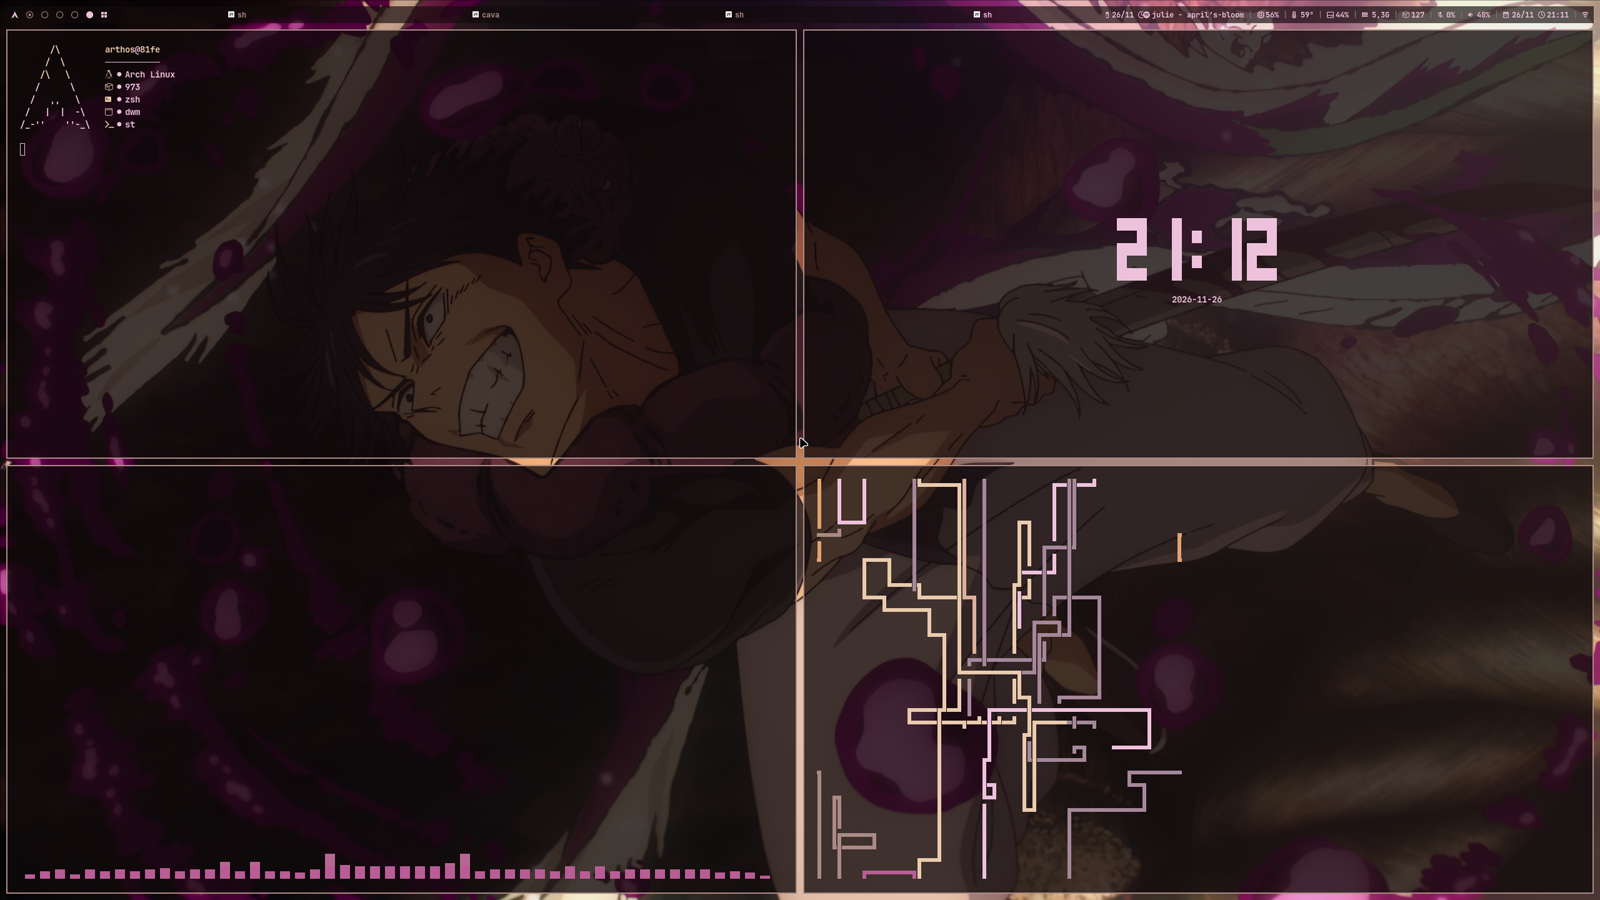
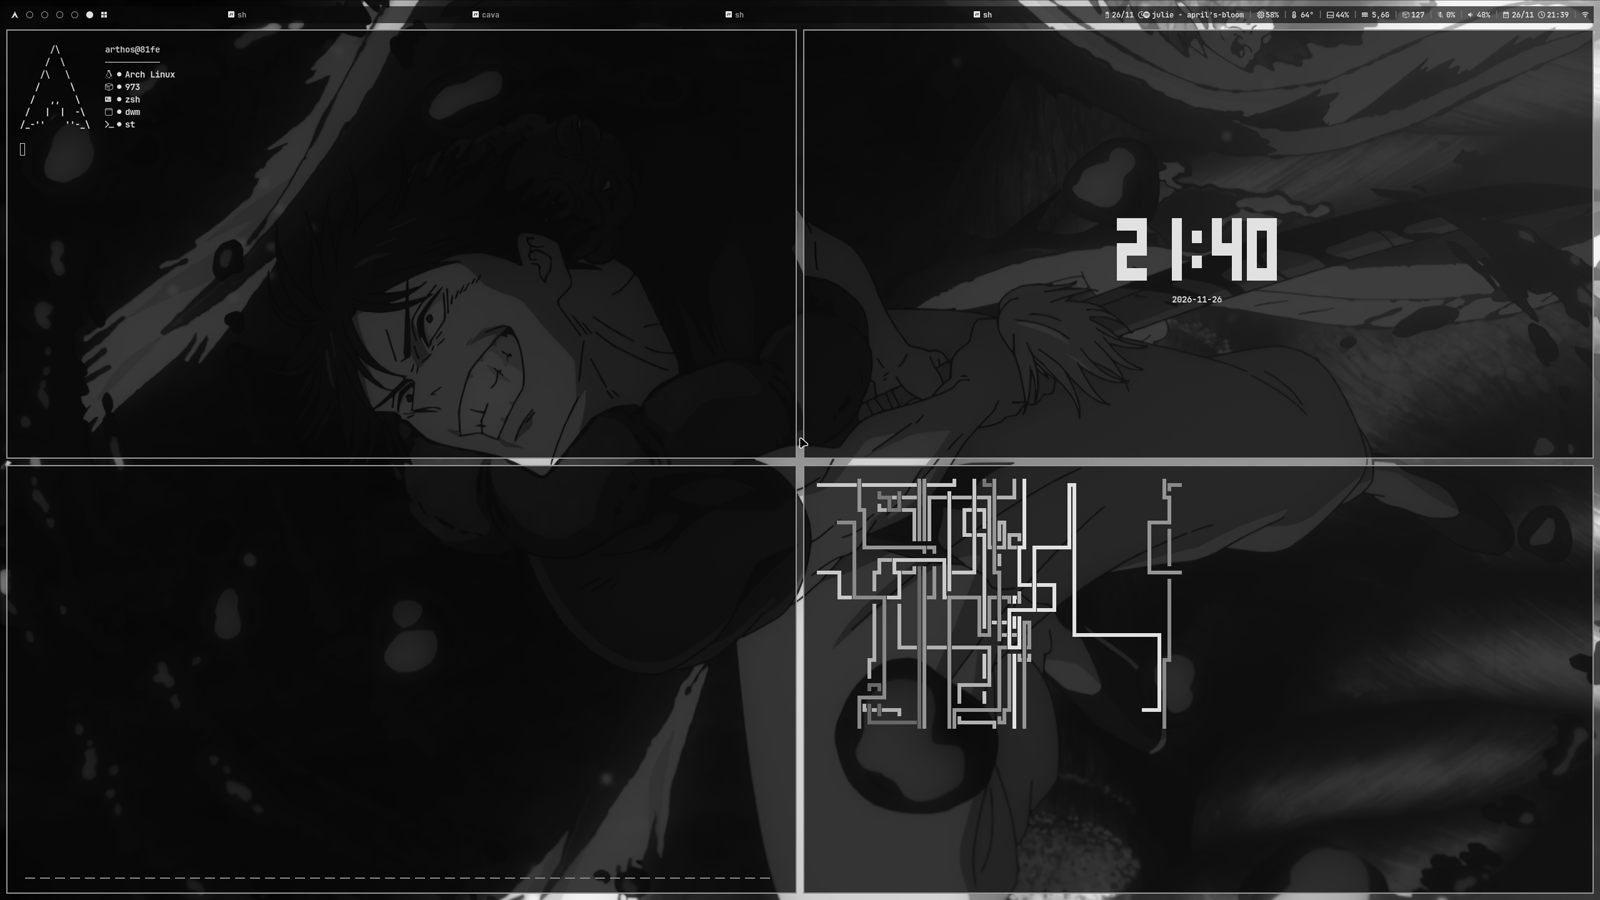
README: clima shoegaze e tema preto e branco do toji
Seções viram faixas de uma fita (lado a e lado b), texto em minúsculas e
rodapé com onda sonora enevoada. Demo, galeria do barpop e GIF do toji
regravados com o wallpaper em preto e branco e a paleta cinza do pywal.

diff --git a/README.md b/README.md
@@ -6,39 +6,42 @@
 
 ## /home/arthos/dotfiles
 
+<sub>˚ ₊‧ loud guitars, quiet rooms ‧₊ ˚</sub><br>
+<sub>▶ ılıılıılıılı &nbsp; on repeat while building this: fleshwater · title fight &nbsp; ılıılıılıılı</sub>
+
 </div>
 
 <div align=center>
 
-![](https://img.shields.io/github/stars/francosec/dotfiles?color=edc1dc&logo=apachespark&logoColor=edc1dc&style=for-the-badge&labelColor=0c0708)
-![](https://img.shields.io/github/last-commit/francosec/dotfiles?&logo=github&style=for-the-badge&color=edc1dc&logoColor=edc1dc&labelColor=0c0708)
-![](https://img.shields.io/github/repo-size/francosec/dotfiles?color=edc1dc&logo=hackthebox&logoColor=edc1dc&style=for-the-badge&labelColor=0c0708)
+![](https://img.shields.io/github/stars/francosec/dotfiles?color=e1e1e1&logo=apachespark&logoColor=e1e1e1&style=for-the-badge&labelColor=060606)
+![](https://img.shields.io/github/last-commit/francosec/dotfiles?&logo=github&style=for-the-badge&color=e1e1e1&logoColor=e1e1e1&labelColor=060606)
+![](https://img.shields.io/github/repo-size/francosec/dotfiles?color=e1e1e1&logo=hackthebox&logoColor=e1e1e1&style=for-the-badge&labelColor=060606)
 
 </div>
 
 <img align="right" src="img/build.png" alt="Rice Preview" width="363px"/>
 
 ```Go
-☾                 † Setup / DWM †                 ☽
+side a ── 01. setup / dwm             ♡ ⋆˚ ༘
 ---------------------------------------------------
-╭─ Distro          -> Arch Linux
-├─ Editor          -> NeoVim
-├─ Browser         -> Chromium / Brave
-├─ Shell           -> zsh
-╰─ System Monitor  -> barpop
+╭─ distro          -> arch linux
+├─ editor          -> neovim
+├─ browser         -> chromium / brave
+├─ shell           -> zsh
+╰─ system monitor  -> barpop
 
-╭─ Music Player    -> cmus / Spotify
-├─ Compositor      -> picom (glass + blur)
-├─ Notifications   -> dunst
-├─ Media Player    -> mpv
-╰─ File Manager    -> ranger
+╭─ music           -> cmus / spotify
+├─ compositor      -> picom (glass + blur)
+├─ notifications   -> dunst
+├─ media player    -> mpv
+╰─ file manager    -> ranger
 
-╭─ WM              -> dwm
-├─ Bar             -> dwmblocks-async
-├─ Terminal        -> st
-├─ App Launcher    -> dmenu
-├─ Theme           -> pywal
-╰─ Font            -> JetBrainsMono NF
+╭─ wm              -> dwm
+├─ bar             -> dwmblocks-async
+├─ terminal        -> st
+├─ app launcher    -> dmenu
+├─ theme           -> pywal (black & white toji)
+╰─ font            -> jetbrainsmono nf
 ```
 
 <p align="center">
@@ -46,16 +49,16 @@
 </p>
 <br>
 
-  **Warning**
+  **warning**
 
-  This is my personal Arch Linux setup, running on three monitors (notebook, tela 2 1440p and a tela 3 on a USB adapter). Use it as inspiration: there is no guarantee it will work as-is on your machine.
+  this is my personal arch linux setup, running on three monitors. use it as inspiration: there is no guarantee it will work as-is on your machine.
 
 <br>
 
 <div align=center>
 
 ```ocaml
-☾ barpop 窓 ☽
+side a ── 02. barpop 窓
 ```
 </div>
 
@@ -66,7 +69,7 @@
 Click a block on the bar and it opens a popup. A single script, `~/.local/bin/barpop` (Python + GTK 3), draws all of them. The data comes from `/proc`, `/sys` and tools like `wpctl`, `iw` and `df`; btop and htop are not needed.
 
 <details>
-<summary><b>What each popup shows 火</b></summary>
+<summary><b>what each popup shows 火</b></summary>
 <br>
 
 | Block | Popup |
@@ -85,7 +88,7 @@ Click a block on the bar and it opens a popup. A single script, `~/.local/bin/ba
 </details>
 
 <details>
-<summary><b>How it works 水</b></summary>
+<summary><b>how it works 水</b></summary>
 <br>
 
 - It opens under the block you clicked. The mouse position is read before GTK loads, so moving the mouse right after the click doesn't throw it off.
@@ -105,12 +108,12 @@ Click a block on the bar and it opens a popup. A single script, `~/.local/bin/ba
 <div align=center>
 
 ```ocaml
-☾ Installation 魅 ☽
+side b ── 03. installation 魅
 ```
 </div>
 
 <details>
-<summary><b>Manual</b></summary>
+<summary><b>manual</b></summary>
 <br>
 
   Assuming your **AUR Helper** is [yay](https://github.com/Jguer/yay).
@@ -128,7 +131,7 @@ git clone https://github.com/francosec/dotfiles.git
 </details>
 
 <details>
-<summary><b>Automatic</b></summary>
+<summary><b>automatic</b></summary>
 <br>
 
   Install [git](https://github.com/git/git), clone this repo and run the script
@@ -144,7 +147,7 @@ chmod +x install.sh
 </details>
 
 <details>
-<summary><b>Fresh Arch with LUKS</b></summary>
+<summary><b>fresh arch with luks</b></summary>
 <br>
 
   `instalar-arch-luks.sh` installs Arch with two LUKS2 volumes (`/boot`, opened by GRUB, and `/`, opened by the initramfs), then runs this build at the end. Run it from the Arch live ISO.
@@ -162,7 +165,7 @@ bash instalar-arch-luks.sh /dev/sdX   # WIPES the whole disk
 <div align=center>
   
 ```ocaml
-☾ Suckless Build お ☽
+side b ── 04. suckless build お
 ```
 <br>
 </div>
@@ -543,7 +546,7 @@ bash instalar-arch-luks.sh /dev/sdX   # WIPES the whole disk
 </details>
 
 <details>
-<summary><b>Keybinds 麗</b></summary><br>
+<summary><b>05. keybinds 麗</b></summary><br>
 
 **Windows and layouts**
 
@@ -626,5 +629,7 @@ bash instalar-arch-luks.sh /dev/sdX   # WIPES the whole disk
 | `Control` + `Shift` + `A` / `S`           | More / less transparent (all `st` and barpop follow). |
 
 </details>
+
+<div align="center"><sub>end of side b ⋆˚ ༘ ♡ &nbsp; rewind and play again</sub></div>
 
 <img src="img/footer.svg" width="100%" title="Footer">
